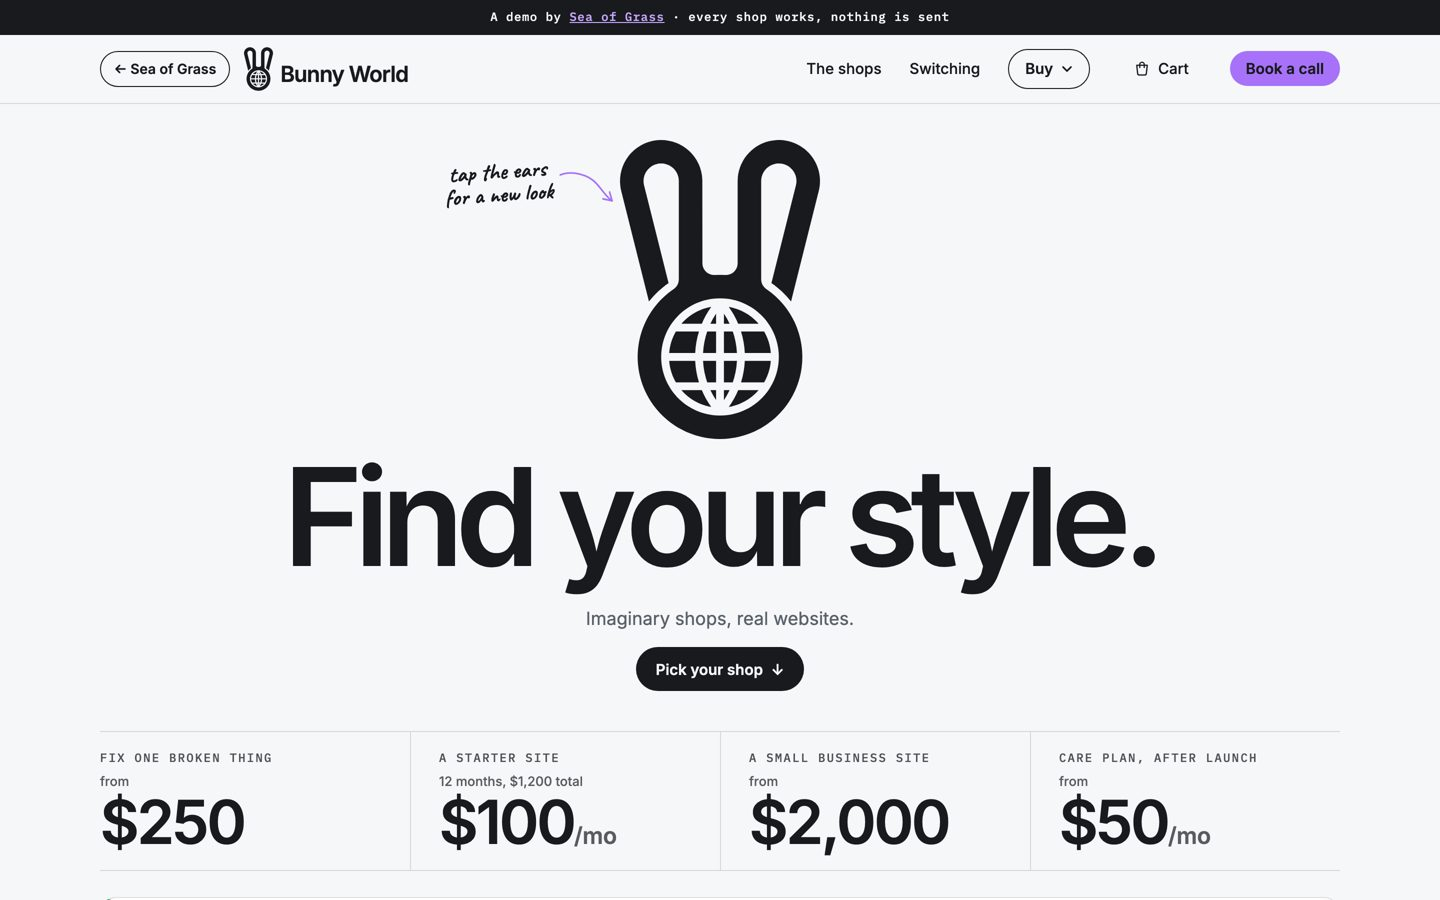
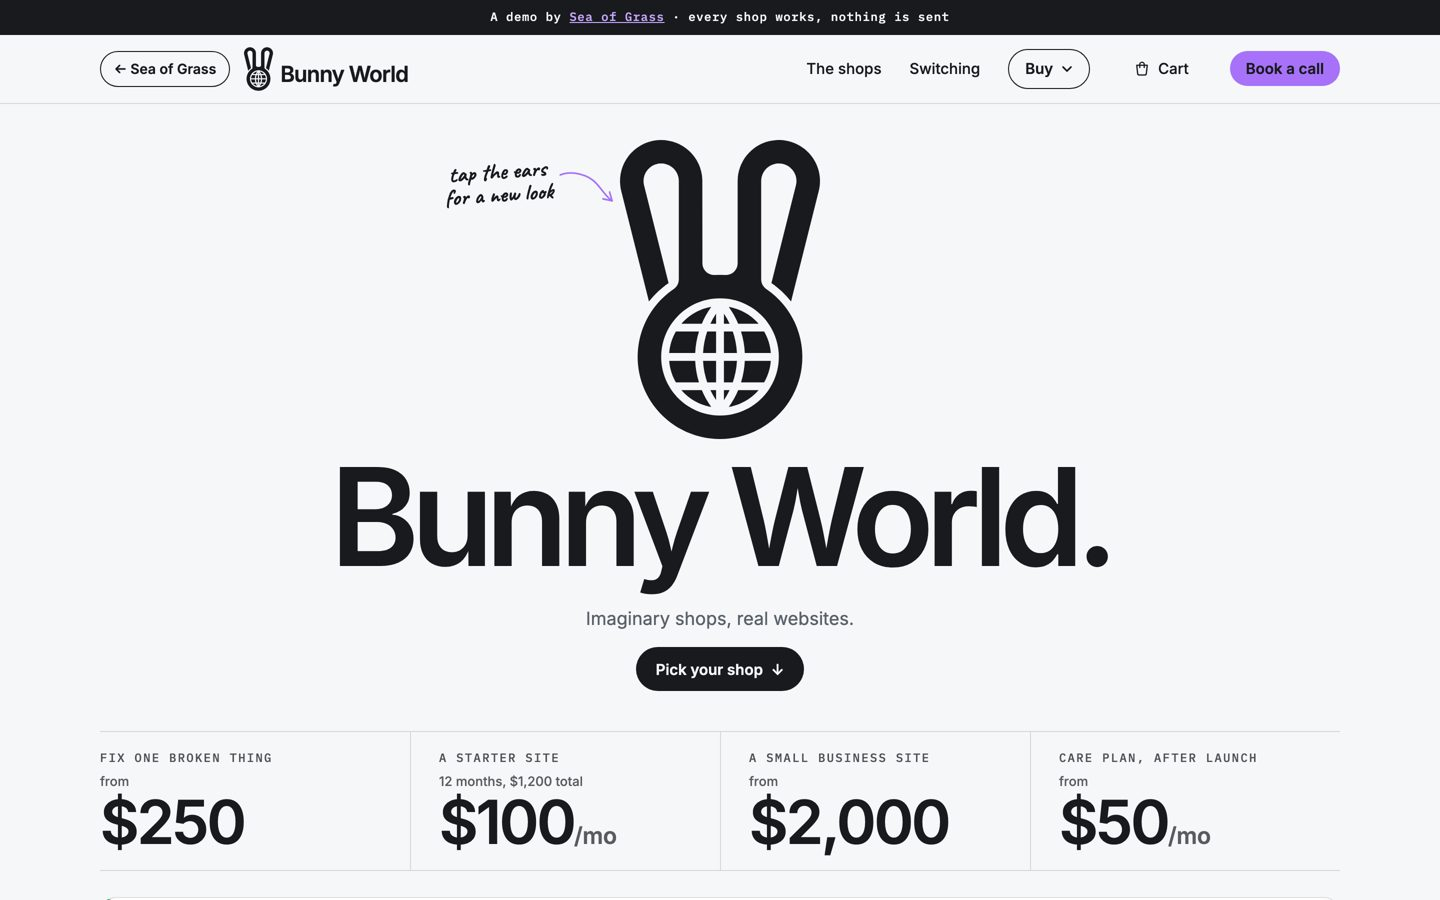
Bunny World hero: the loop swaps "Hop with style." and "Bunny World." (close in length, so the centred unit holds still)
Reduced motion and screen readers: "Bunny World." Same timing (5.5s holds, ~1.6s sweeps). One line at every width in
all five looks. Headline and loop tests moved to the new lines.

Changed region(s): [[0.1875, 0.4978, 0.8125, 0.6844]]

diff --git a/bunnyworld/brand.css b/bunnyworld/brand.css
@@ -270,7 +270,7 @@ html[data-look="sunny"] .lh-hint svg{color:var(--sun);filter:drop-shadow(1.5px 1
 .credit-sog::after,.sog-back::after{content:"";position:absolute;left:0;right:0;top:50%;height:44px;transform:translateY(-50%)}
 
 /* ===== The headline sweep (2026-11-15, pattern after refero.design's home headline; their look is not borrowed).
-   "Hop in." is rewritten letter by letter into "Find your style." by a wave of the five looks' accent colours, in tap order
+   (Lines since 2026-11-16: "Hop with style." ⇄ "Bunny World.") "Hop in." was rewritten letter by letter into "Find your style." by a wave of the five looks' accent colours, in tap order
    (Clean violet, Bold orange, Warm tomato, Sunny yellow, Disco pink), then every letter settles in the look's flat ink.
    Since 2026-11-16 it loops (see below); the sweep itself runs in headline.js with the Web Animations API.
    Each letter is one flat colour at any moment, so nothing gradient is ever painted, and nothing is left animated at rest.
@@ -281,8 +281,8 @@ html[data-look="sunny"] .lh-hint svg{color:var(--sun);filter:drop-shadow(1.5px 1
 .lh-from{position:absolute;left:0;top:0;visibility:hidden;pointer-events:none}
 /* The loop, in Refero's rhythm (Tristan, 2026-11-16: "on Refero it's like every 5–6 seconds"): headline.js holds each line
    5.5s in flat ink, then sweeps to the other in 1.3–1.6s, while the hero is on screen and the tab is visible.
-   html.hl-loop is set in <head> only when motion is allowed, so the first paint is "Hop in."; without it (reduced motion, or
-   scripts off) the base state is "Find your style." still. data-show="both" only while a sweep runs. */
+   html.hl-loop is set in <head> only when motion is allowed, so the first paint is "Hop with style."; without it (reduced motion, or
+   scripts off) the base state is "Bunny World." still. data-show="both" only while a sweep runs. */
 .hl-loop .lh-h:not([data-show="to"]) .lh-to{visibility:hidden}
 .hl-loop .lh-h:not([data-show="to"]) .lh-from{visibility:visible}
 .hl-loop .lh-h[data-show="both"] .lh-to,.hl-loop .lh-h[data-show="both"] .lh-from{visibility:visible}
@@ -357,7 +357,7 @@ html[data-look="sunny"] .lh-hint svg{color:var(--sun);filter:drop-shadow(1.5px 1
    "right" is the layout above (logo flush right, beside the headline on phones). "centre" is the critic's Refero pick and
    Tristan's hierarchy (2026-11-16, notes/bunny-world/critic/hero-logo/NOTES.md): the logo directly above a one-line
    looping headline, read as one big unit; the line and the button smaller and centred below. A centred line grows and
-   shrinks from the middle as "Hop in." swaps with "Find your style.", so the swap opens no hole beside the logo.
+   shrinks from the middle as "Hop with style." swaps with "Bunny World." (and earlier lines), so the swap opens no hole beside the logo.
    Refero: Duolingo welcome a6439332-6945-4ca3-ad43-f4cedabd80a2, Partiful 106f92c2-da1a-4a11-90d0-b82c84437429. */
 .hero[data-logo="centre"]{padding-top:clamp(24px,2.5vw,36px)}
 .hero[data-logo="centre"] .lh-grid{display:flex;flex-direction:column;align-items:center;gap:0;text-align:center}

diff --git a/bunnyworld/index.html b/bunnyworld/index.html
@@ -33,7 +33,7 @@ window.dataLayer=window.dataLayer||[];function gtag(){dataLayer.push(arguments);
 </div></div></div><a class="cta" href="https://cal.com/sea-of-grass" target="_blank" rel="noopener">Book a call</a></nav></header>
 <main id="top">
 <section class="hero band" data-logo="centre"><div class="in lh-grid"><div class="lh-copy">
-<h1 class="lh-h"><span class="sr">Find your style.</span><span class="lh-to" aria-hidden="true"><span style="--i:0">F</span><span style="--i:1">i</span><span style="--i:2">n</span><span style="--i:3">d</span><span style="--i:4"> </span><span style="--i:5">y</span><span style="--i:6">o</span><span style="--i:7">u</span><span style="--i:8">r</span><span style="--i:9"> </span><br class="hl-br"><span style="--i:10">s</span><span style="--i:11">t</span><span style="--i:12">y</span><span style="--i:13">l</span><span style="--i:14">e</span><span style="--i:15">.</span></span><span class="lh-from" aria-hidden="true"><span style="--i:0">H</span><span style="--i:1">o</span><span style="--i:2">p</span><span style="--i:3"> </span><span style="--i:4">i</span><span style="--i:5">n</span><span style="--i:6">.</span></span></h1>
+<h1 class="lh-h"><span class="sr">Bunny World.</span><span class="lh-to" aria-hidden="true"><span style="--i:0">B</span><span style="--i:1">u</span><span style="--i:2">n</span><span style="--i:3">n</span><span style="--i:4">y</span><span style="--i:5"> </span><br class="hl-br"><span style="--i:6">W</span><span style="--i:7">o</span><span style="--i:8">r</span><span style="--i:9">l</span><span style="--i:10">d</span><span style="--i:11">.</span></span><span class="lh-from" aria-hidden="true"><span style="--i:0">H</span><span style="--i:1">o</span><span style="--i:2">p</span><span style="--i:3"> </span><span style="--i:4">w</span><span style="--i:5">i</span><span style="--i:6">t</span><span style="--i:7">h</span><span style="--i:8"> </span><span style="--i:9">s</span><span style="--i:10">t</span><span style="--i:11">y</span><span style="--i:12">l</span><span style="--i:13">e</span><span style="--i:14">.</span></span></h1>
 <p class="lede" data-voice="tagline">Imaginary shops, real websites.</p>
 <a class="lh-go" href="#shops"><span>Pick your shop</span><span aria-hidden="true">&darr;</span></a></div>
 <div class="lh-stage">
@@ -71,7 +71,7 @@ window.dataLayer=window.dataLayer||[];function gtag(){dataLayer.push(arguments);
 </main>
 <footer class="foot band"><span class="logo foot-logo"><i class="mk" aria-hidden="true"></i><span>Bunny World</span></span><span>Every shop here is made up, so there are no real businesses, people or orders behind them.</span><span>A demo by <a href="/">Sea of Grass</a>, Berthoud, Colorado</span></footer>
 <script src="looks.js?v=5" defer></script>
-<script src="headline.js?v=2" defer></script>
+<script src="headline.js?v=3" defer></script>
 <script src="landing.js?v=5" defer></script>
 <script src="/preview/assets/shop/checkout-links.js" defer></script>
 <script src="/preview/assets/shop/cart.js" defer></script>

diff --git a/bunnyworld/headline.js b/bunnyworld/headline.js
@@ -1,13 +1,13 @@
-/* Bunny World landing headline, in Refero's rhythm (Tristan, 2026-11-16): "Hop in." ⇄ "Find your style.", each line held
+/* Bunny World landing headline, in Refero's rhythm (Tristan, 2026-11-16): "Hop with style." ⇄ "Bunny World.", each line held
    5.5s in flat ink, each change a ~1.6s letter-by-letter sweep through the five looks' accents (tap order: Clean, Bold, Warm,
    Sunny, Disco). Runs only while the hero is on screen and the tab is visible; coming back waits a full hold before the next
    change. Every letter is one flat colour at any moment (no gradients), and at rest nothing is animating: the sweep's
    animations are cancelled once it lands. Reduced motion: html.hl-loop is never set, so this does nothing and the CSS shows
-   "Find your style." still. Screen readers read the static .sr line; the animated letters are aria-hidden. */
+   "Bunny World." still. Screen readers read the static .sr line; the animated letters are aria-hidden. */
 (() => {
   const root = document.documentElement, h = document.querySelector('.hero h1.lh-h');
   if (!h || !root.classList.contains('hl-loop') || !h.animate) return;
-  const HOLD = 5500, OPEN = 1000, FRONT = 850, LETTER = 700, LEAD = 120; // a sweep runs ~1.3s (to "Hop in.") to ~1.6s (to the longer line)
+  const HOLD = 5500, OPEN = 1000, FRONT = 850, LETTER = 700, LEAD = 120; // a sweep runs about 1.5s
   const layers = { from: [...h.querySelectorAll('.lh-from>span')], to: [...h.querySelectorAll('.lh-to>span')] };
   const cs = getComputedStyle(root), ACC = ['clean', 'bold', 'warm', 'sunny', 'disco'].map(k => cs.getPropertyValue('--acc-' + k).trim());
   let show = 'from', timer = 0, running = null, onScreen = null;
